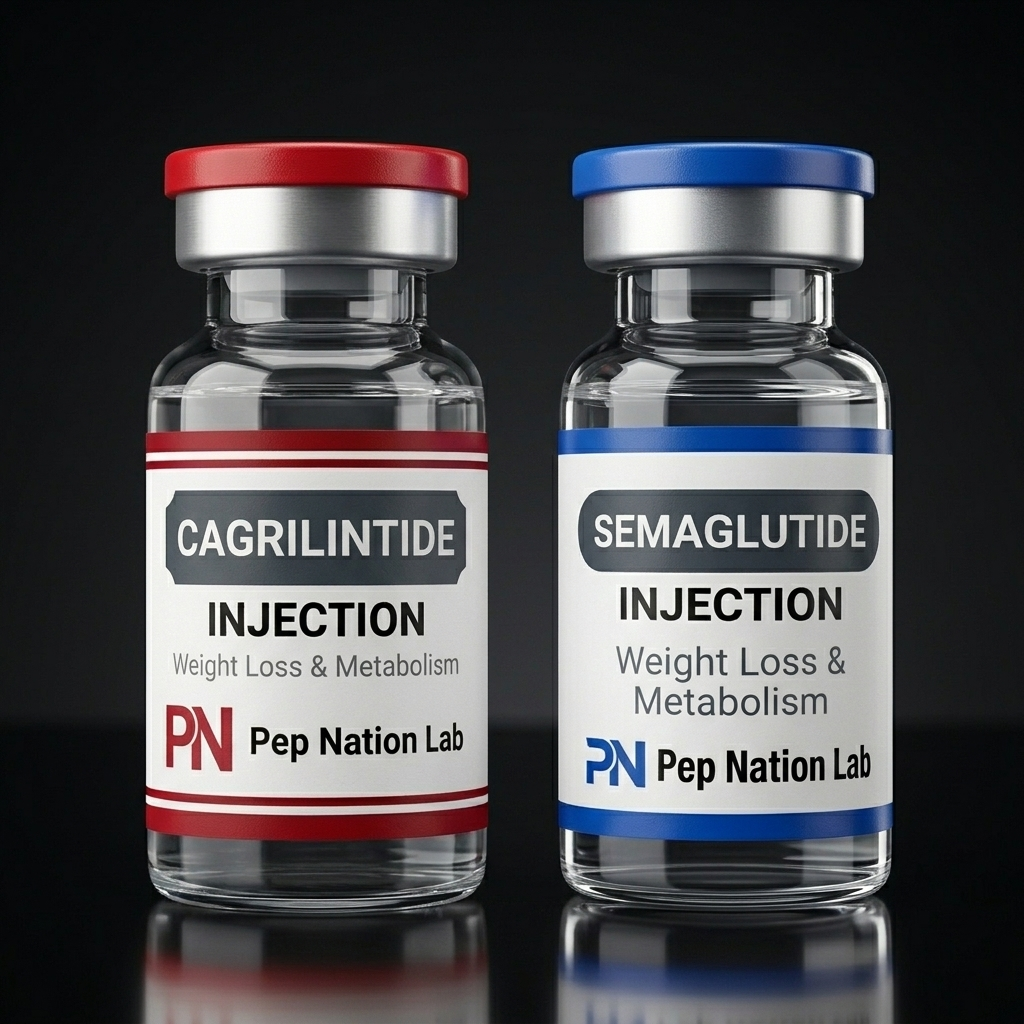
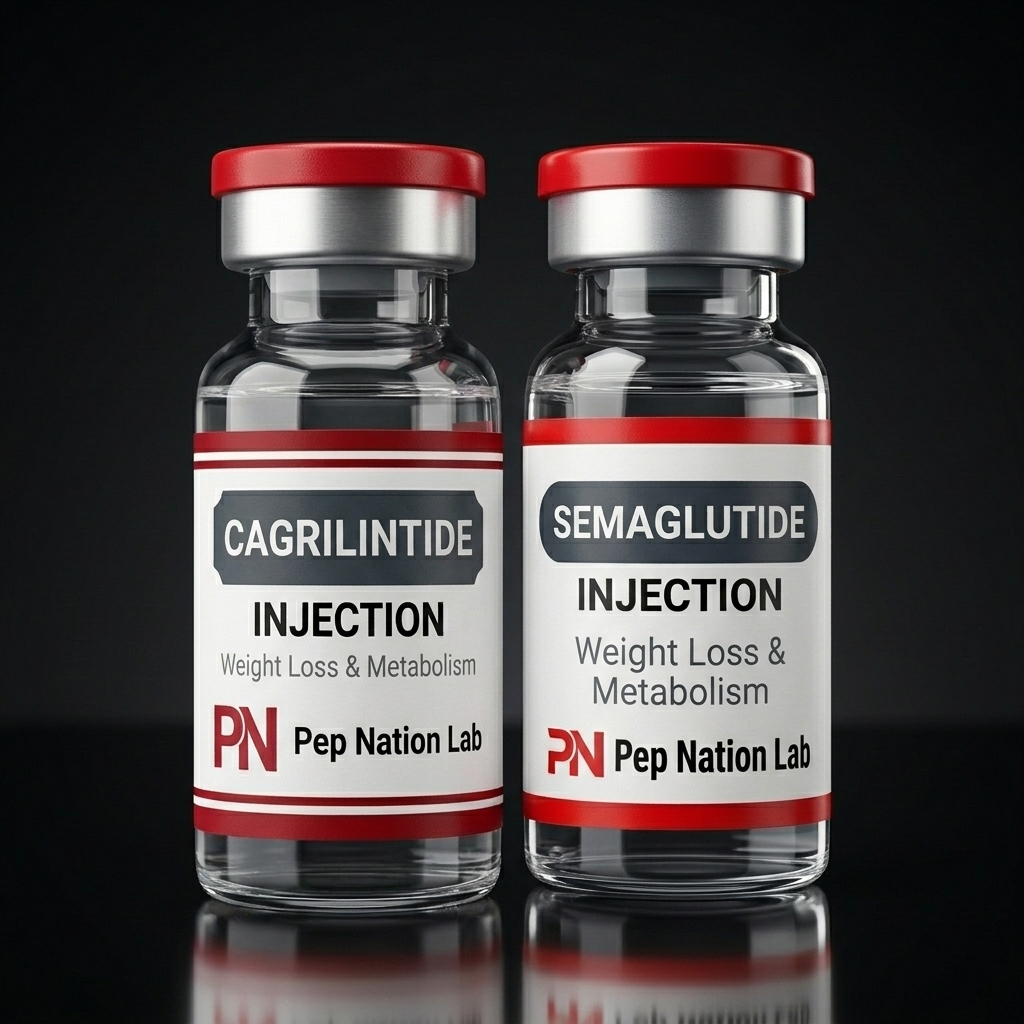
Fix CagriSema caps to be red/red, and wrap top image clusters so Klow stack vials remain full size

diff --git a/components/research/StacksClient.tsx b/components/research/StacksClient.tsx
@@ -404,8 +404,8 @@ export default function StacksClient({ compounds, stacks, products }: Props) {
                   </div>
 
                   {/* Image Cluster */}
-                  <div style={{ display: 'flex', gap: 8, flexWrap: 'nowrap', justifyContent: 'center', marginBottom: 20, width: '100%', overflowX: 'auto', paddingBottom: 4, scrollbarWidth: 'none' }}>
-                    {stack.stack_components.map((compSlug, i) => {
+                  <div style={{ display: 'flex', gap: 8, flexWrap: 'wrap', justifyContent: 'center', marginBottom: 20, width: '100%', overflowX: 'auto', paddingBottom: 4, scrollbarWidth: 'none' }}>
+                    {stack.stack_components.map((compSlug: string, i: number) => {
                       const compProducts = products.filter((prod) => prod.compoundSlug === compSlug);
                       compProducts.sort(sortStackProducts);
                       const p = compProducts.length > 0 ? compProducts[0] : undefined;
@@ -416,7 +416,7 @@ export default function StacksClient({ compounds, stacks, products }: Props) {
                       
                       return (
                         <div key={compSlug} style={{ 
-                          flex: '1 1 0', minWidth: 0, maxWidth: 160,
+                          flex: '0 0 28%', minWidth: 90, maxWidth: 160,
                           position: 'relative',
                           display: 'flex', flexDirection: 'column', alignItems: 'center', justifyContent: 'flex-start',
                         }}>
